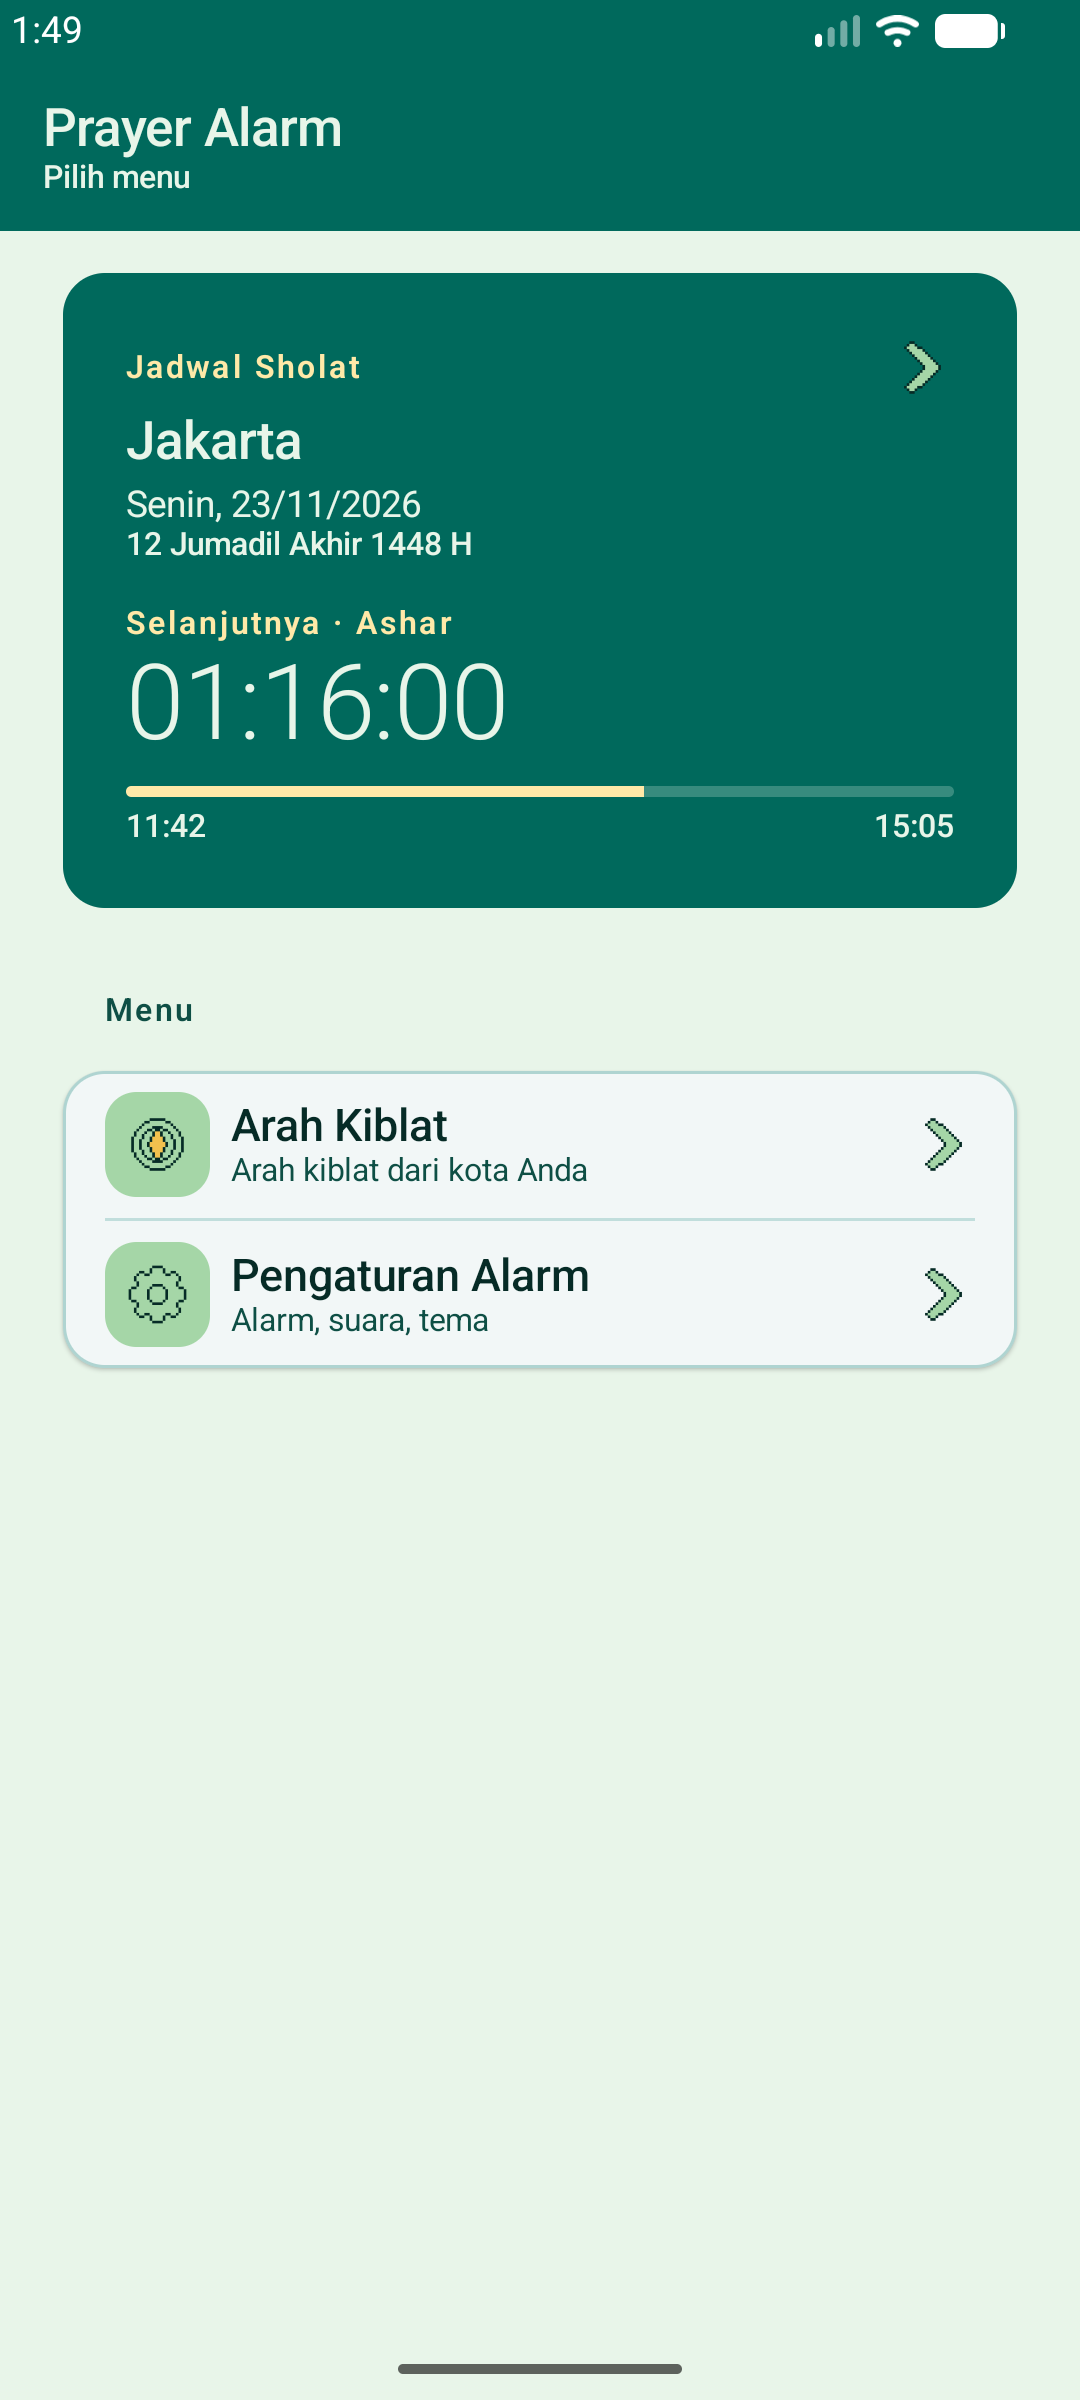
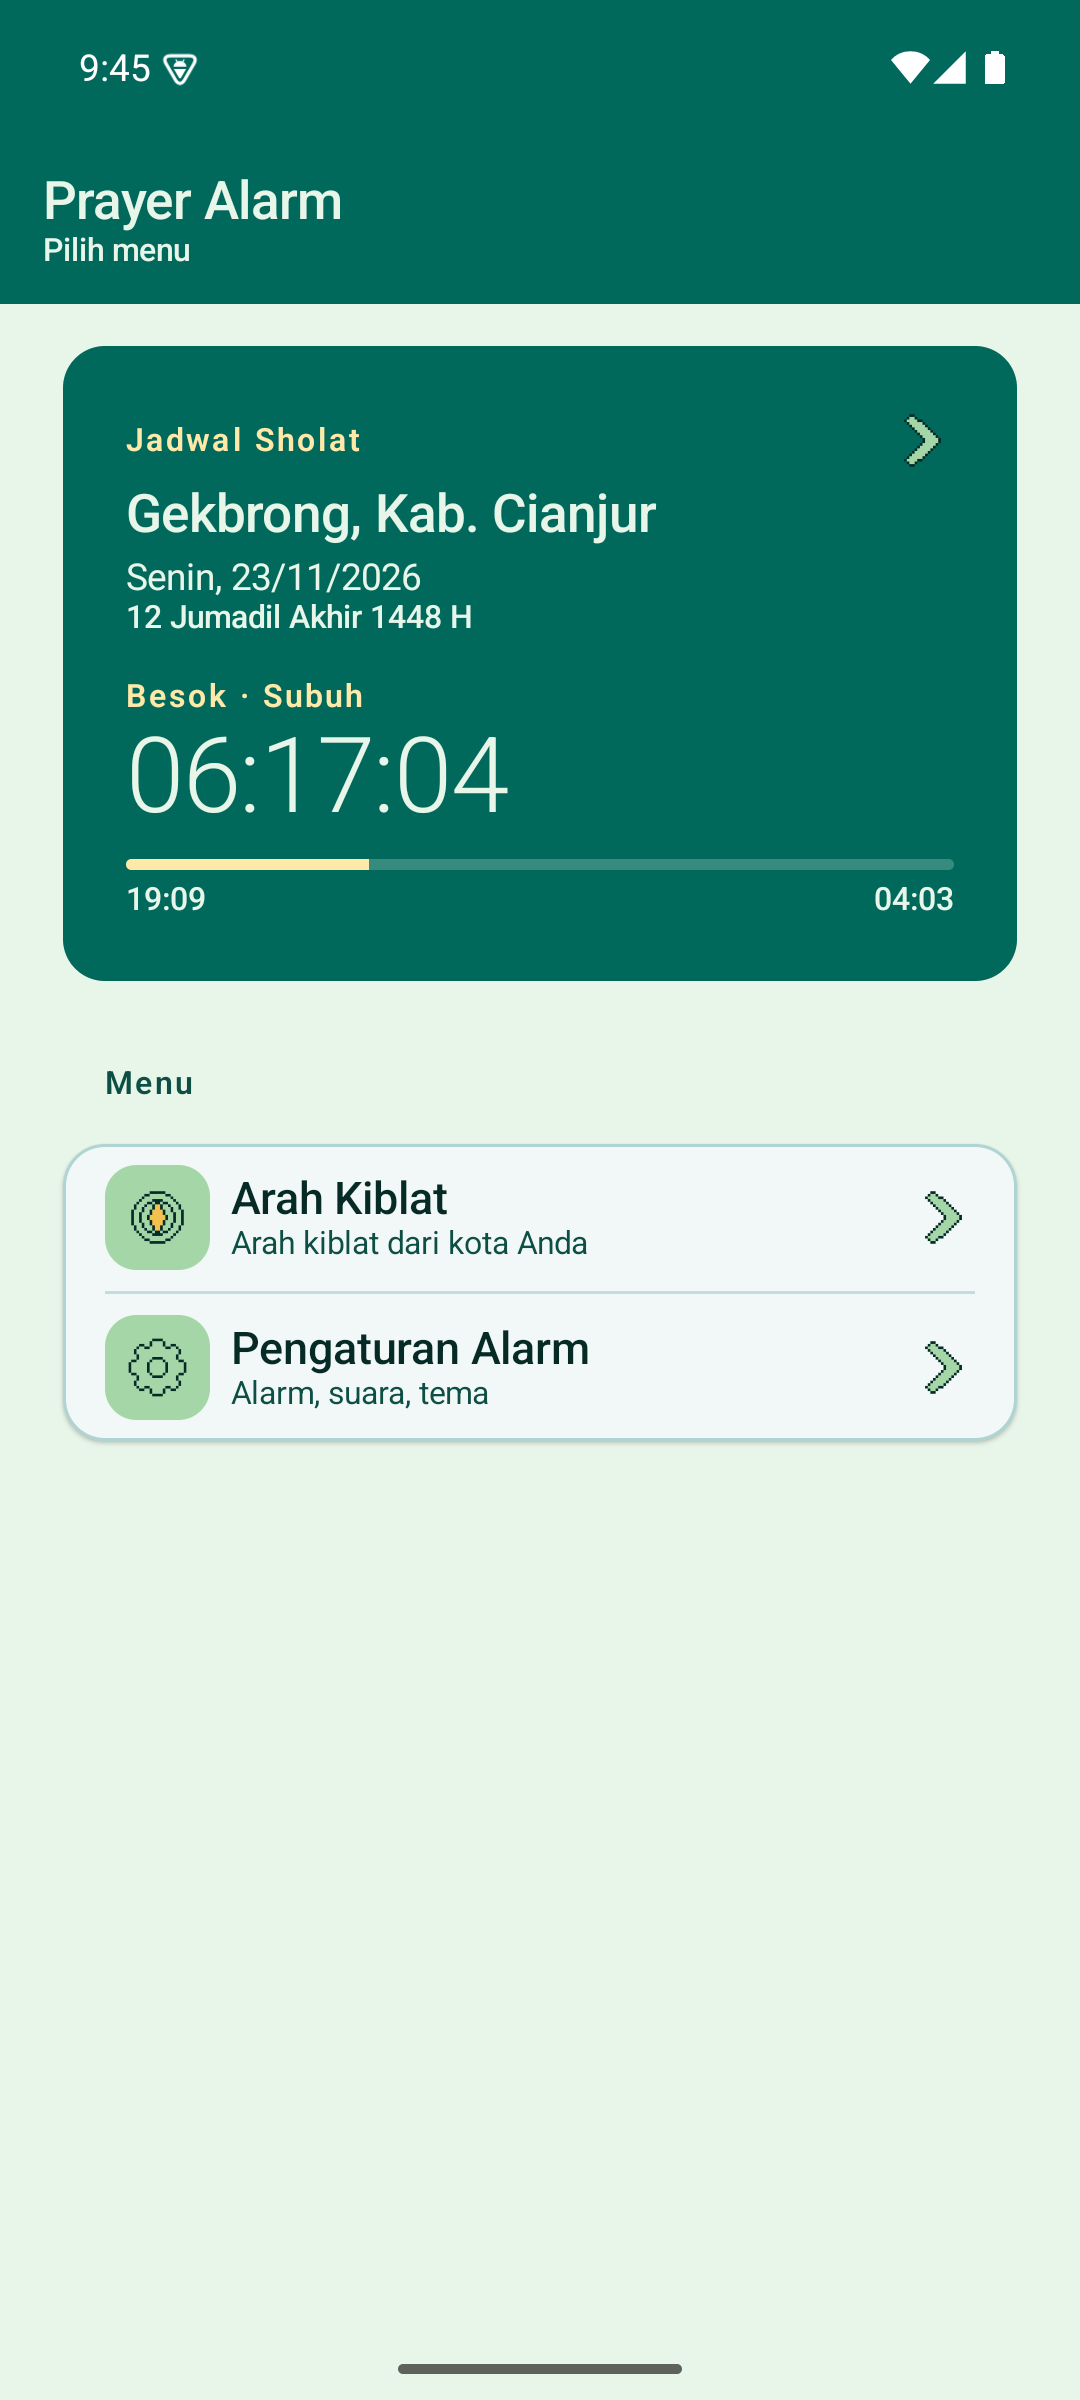
feat: refresh screenshots for 1.1.0 and fit the gallery
Replace all five screenshots with captures from the signed 1.1.0 build
(versionCode 3): the location label is now the exact place
('Gekbrong, Kab. Cianjur') instead of the old Jakarta/5-alarm state.

Fix the gallery clipping: 5 x 200px + 4 x 16px gaps = 1064px overflowed
the 1040px column, cutting off the dark screenshot. The flex basis now
clamps to (100% - 64px) / 5 on desktop so all five render at the same
width and stay fully visible; narrow screens still scroll.

diff --git a/index.html b/index.html
@@ -83,7 +83,7 @@ main{max-width:1040px;margin:0 auto;padding:16px 16px 40px}
 .group p{margin:0;font-size:.88rem;color:var(--deep)}
 
 .shots{display:flex;gap:16px;overflow-x:auto;padding:4px 4px 16px;scroll-snap-type:x mandatory}
-.shots figure{margin:0;flex:0 0 200px;scroll-snap-align:start}
+.shots figure{margin:0;flex:0 0 clamp(160px,calc((100% - 64px) / 5),200px);scroll-snap-align:start}
 .shots img{width:100%;height:auto;border-radius:20px;border:6px solid var(--ink);
   background:var(--ink);box-shadow:0 10px 24px rgba(6,43,38,.18)}
 .shots figcaption{text-align:center;margin-top:8px;font-size:.8rem;color:var(--deep)}
